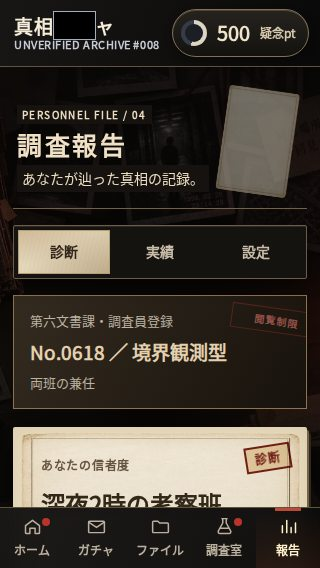
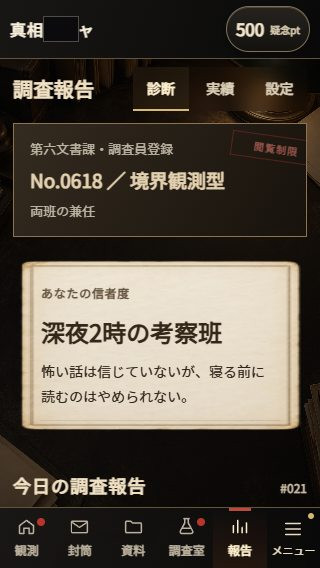
Add report and agent menu atmosphere art (#278)

diff --git a/assets/physical-ui.css b/assets/physical-ui.css
@@ -1,4 +1,4 @@
-/* Twelve independent photographic assets. All labels and interactions remain HTML. */
+/* Physical UI assets and screen-specific decorative backdrops. All labels and interactions remain HTML. */
 body.lite { background:linear-gradient(#09080680,#090806b8),url('ui/civilian-desk.webp') center/cover fixed; }
 body.lite .top,body.lite .lite-footer { background:#17130ff2; border-color:#786246; }
 body.lite .lite-event { background:#eee0c3 url('ui/evidence-paper-clean.webp') center/100% 100%; color:#30261c; padding:26px 26px 30px; border:0; }
@@ -38,6 +38,8 @@ body.lite .lite-last .doc { background:#eee1c5 url('ui/evidence-paper-clean.webp
 .ev-audio { background:#100e0b url('ui/audio-analyzer-clean.webp') center/contain no-repeat; min-height:180px; }
 .ev-audio .wave { background:#07100dcc; border:1px solid #87977a; width:88%; height:50px; padding:6px; }
 .report-scene .diag { background:#e9dcc0 url('ui/report-paper-clean.webp') center/100% 100% no-repeat; border:0; padding:28px; transform:none; }
+.report-scene::before { background:linear-gradient(180deg,rgba(8,7,6,.44),rgba(8,7,6,.64)),url('ui/report-desk-v1.webp') center/cover no-repeat,#0d0b09; }
+body:not(.lite) .menu-scene::before { background:linear-gradient(180deg,rgba(8,7,6,.35),rgba(8,7,6,.59)),url('ui/menu-lockers-v1.webp') center/cover no-repeat,#0b0b0a; }
 .report-scene .scene-heading::after { background-image:url('ui/report-paper-clean.webp'); width:75px; right:12px; }
 .sheet .appointment-paper { background-image:url('ui/appointment-paper-clean.webp'); padding:32px 25px 94px; }
 .rank-emblem { display:inline-block; width:64px; height:64px; flex:none; background-image:url('ui/rank-insignia.webp'); background-size:200% 200%; background-position:0 0; vertical-align:middle; }

diff --git a/docs/PHYSICAL_ASSETS.md b/docs/PHYSICAL_ASSETS.md
@@ -8,8 +8,10 @@
 | --- | --- | --- | --- |
 | 資料保管庫 | `assets/ui/archive-cabinet-v1.webp` | `assets/ui/sources/archive-cabinet-v1.png` | 暗い木製の索引棚、古紙と黒い金属、周縁だけの弱い琥珀色照明、中央70%を低ディテールの暗色面、文字・記号・人物なし。 |
 | 調査室 | `assets/ui/lab-workbench-v1.webp` | `assets/ui/sources/lab-workbench-v1.png` | 検査台・録音機・拡大鏡・写真片を画面端に配し、中央70%を暗い無地に近い面、物理的な古い機材、文字・記号・人物なし。 |
+| 報告 | `assets/ui/report-desk-v1.webp` | `assets/ui/sources/report-desk-v1.png` | 夜の書類整理台、白紙の報告用紙とクリップを周縁に配置、中央75%を低ディテールの暗色面、文字・記号・人物なし。 |
+| メニュー | `assets/ui/menu-lockers-v1.webp` | `assets/ui/sources/menu-lockers-v1.png` | 課内の金属ロッカーと閉じた保管箱、中央75%を暗く静かな壁面、文字・記号・人物なし。 |
 
-生成モードは組み込み画像生成（stylized-concept）。出力PNGを保存し、Pillow WebP品質90・method 6で配信用に変換。CSSでは各画面の `::before` にのみ指定し、暗色グラデーションを重ねて本文の判読を優先する。画像が読めない場合も暗い単色が残る。320/390/1280幅の画面回帰は `tests/dossier-ui.cjs` で実施する。実機Safariの主観的な見え方は別途確認が必要。
+生成モードは組み込み画像生成（stylized-concept）。出力PNGを保存し、Pillow WebP品質90・method 6で配信用に変換。CSSでは各画面の `::before` にのみ指定し、暗色グラデーションを重ねて本文の判読を優先する。画像が読めない場合も暗い単色が残る。ロッカー背景は調査員編のメニューだけに適用し、一般人編には課内を見せない。320/390/1280幅の画面回帰は `tests/dossier-ui.cjs` で実施する。実機Safariの主観的な見え方は別途確認が必要。
 
 既存ガチャの古紙・黒い金属・赤い局所照明に合わせ、12種類を生成して実装。生成は組み込み画像生成ツールを使用。透過PNG出力を、寸法・アルファを維持してWebP品質90へ変換した。背景は非透過。原画の文字はなく、文字・数値・操作・波形・レーダー走査はHTML/CSSで管理する。
 

diff --git a/docs/EXPERIENCE-DESIGN.md b/docs/EXPERIENCE-DESIGN.md
@@ -28,7 +28,7 @@
 
 ## 3. 1画面1目的
 
-資料保管庫は「記録を探す」ための書庫、調査室は「証拠を扱う」ための検査台として背景を分ける。機材や紙は周縁に留め、本文が載る中央にノイズや擬似文字を置かない。背景は場所の気配だけを補い、分類・数値・行動の判読を妨げない。装飾画像の失敗時も操作と意味は変わらない。
+資料保管庫は「記録を探す」ための書庫、調査室は「証拠を扱う」ための検査台、報告は「記録をまとめる」ための書類整理台、メニューは「課内の入口」としての収納棚に背景を分ける。機材や紙は周縁に留め、本文が載る中央にノイズや擬似文字を置かない。背景は場所の気配だけを補い、分類・数値・行動の判読を妨げない。装飾画像の失敗時も操作と意味は変わらない。
 
 画面名と分類切替は可能なら1段にまとめ、本文を押し下げる重複行を増やさない。分類は44px以上の操作領域を持ち、本文上に固定して重ねない。文字拡大では切り捨てず折り返す。診断にだけ関係する調査員証などの操作は、その本文側に置くが、診断カードと今日の報告より前には出さない。スマホの調査員画面では、共通ヘッダーの飾り情報よりタイトルと所持pt、調査室では説明の常設行より最初の強化対象を優先する。説明は削除せず必要時に開ける。実例と検証範囲は [画面ナビゲーション点検](SCREEN-NAVIGATION-AUDIT-2026-10-19.md)。
 

diff --git a/docs/CURRENT-SPEC.md b/docs/CURRENT-SPEC.md
@@ -103,7 +103,7 @@
 
 ## 6. UI情報設計
 
-資料保管庫には暗い木製の索引棚、調査室には暗い検査台の専用装飾背景を敷く。背景は操作不可で、中央の低ディテール領域と暗色グラデーションにより本文とカードを優先する。画像取得に失敗しても暗色面を維持し、文言・解放条件・保存・報酬は変えない。元画像と配信用画像は `assets/ui/atmosphere-manifest.json` で管理する。
+資料保管庫には暗い木製の索引棚、調査室には暗い検査台、報告には書類整理台、メニューには課内のロッカーの専用装飾背景を敷く。背景は操作不可で、中央の低ディテール領域と暗色グラデーションにより本文とカードを優先する。画像取得に失敗しても暗色面を維持し、文言・解放条件・保存・報酬は変えない。元画像と配信用画像は `assets/ui/atmosphere-manifest.json` で管理する。
 
 | 画面 | 第一目的 | 出してよい主要情報 |
 | --- | --- | --- |
